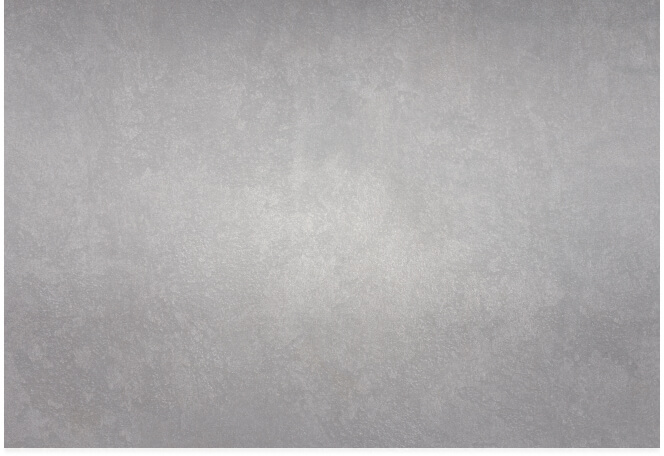
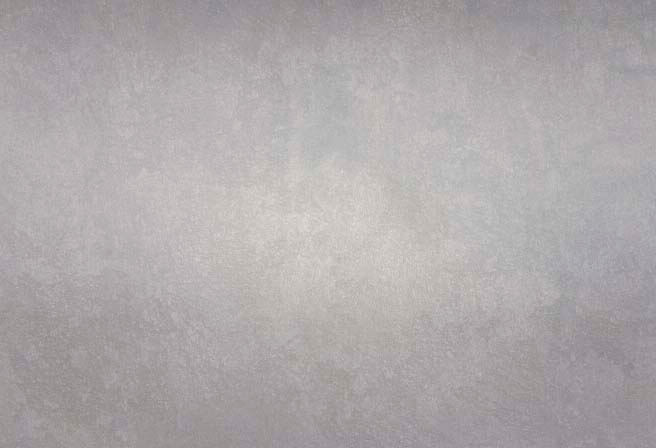
поправляет дату и фоновую картинку у товара

Changed region(s): [[0.0, 0.0, 1.0, 1.0]]

diff --git a/src/index.html b/src/index.html
@@ -12,6 +12,18 @@
 	<link rel="shortcut icon" href="favicon.ico" type="image/x-icon">
 
 	<link rel="stylesheet" href="styles/main.css">
+	<script>
+		function dtime(num) {
+			const date = new Date();
+
+			date.setDate(date.getDate() + num);
+			var options = {
+				month: 'long',
+				day: 'numeric',
+			};
+			document.write(date.toLocaleString("en-US", options));
+		}
+	</script>
 </head>
 
 <body>
@@ -172,7 +184,7 @@
 				<p>— Это, несомненно, радует. Спасибо большое за интервью, вашу работу и за то, что пытаетесь изменить мир к лучшему!</p>
 				<p>— Я всегда была за инновации и рада, что у меня получается двигаться в правильном направлении. Надеюсь, Illumis поможет каждой женщине и поэтому дарю скидку 50 % всем, кто успеет заказать продукт из второй партии.</p>
 				<figure>
-					<img src="./img/img-6.jpg" alt="#" width="656" height="688" loading="lazy">
+					<img src="./img/img-6.jpg" alt="#" width="656" height="448" loading="lazy">
 					<img src="./img/prod.png" alt="Illumis" class="prod" width="146" height="353" loading="lazy">
 					<figcaption class="p0">
 						<span>Illumis</span>
@@ -219,7 +231,10 @@
 							<div class="comments__item-header">
 								<div class="comments__ava">M</div>
 								<p class="comments__name">Mary Thompson</p>
-								<p class="comments__date">10:20 23 May</p>
+								<p class="comments__date">10:20 <script>
+										dtime(-2);
+									</script>
+								</p>
 							</div>
 							<p>Thanks, I’m gonna order it for myself.</p>
 							<div class="comments__likes">
@@ -232,7 +247,10 @@
 							<div class="comments__item-header">
 								<div class="comments__ava">M</div>
 								<p class="comments__name">Megan Wild</p>
-								<p class="comments__date">10:22 23 May</p>
+								<p class="comments__date">10:22 <script>
+										dtime(-2);
+									</script>
+								</p>
 							</div>
 							<p>I personally don't have any issues of this kind. Dunno, when they talk about pain and a bad mood, it seems to me that they are exaggerating.</p>
 							<div class="comments__likes">
@@ -245,7 +263,10 @@
 							<div class="comments__item-header">
 								<div class="comments__ava">M</div>
 								<p class="comments__name">Margo Kovalev</p>
-								<p class="comments__date">10:29 23 May</p>
+								<p class="comments__date">10:29 <script>
+										dtime(-2);
+									</script>
+								</p>
 							</div>
 							<p>You know, everyone's body is different. My pain was so terrible that I could hardly get out of bed for three days, and 10 days before my periods I simply turned into a ball of nerves, I was irritated by EVERYTHING. Fortunately, I found out about Illumis, otherwise I don’t know how much longer I would have suffered. This is the only product that whipped me into shape, both internally and externally.</p>
 							<div class="comments__likes">
@@ -258,7 +279,10 @@
 							<div class="comments__item-header">
 								<div class="comments__ava">R</div>
 								<p class="comments__name">Roxy Hunt</p>
-								<p class="comments__date">11:02 23 May</p>
+								<p class="comments__date">11:02 <script>
+										dtime(-2);
+									</script>
+								</p>
 							</div>
 							<p>I also suffered from PMS symptoms, I was twitchy and angry. None of the sedatives helped, nor did the painkillers. As soon as I tried Illumis, I went from being an evil witch to being a fairy.</p>
 							<div class="comments__likes">
@@ -271,7 +295,10 @@
 							<div class="comments__item-header">
 								<div class="comments__ava">H</div>
 								<p class="comments__name">Helen Jones</p>
-								<p class="comments__date">11:27 23 May</p>
+								<p class="comments__date">11:27 <script>
+										dtime(-2);
+									</script>
+								</p>
 							</div>
 							<p>I’ve been experiencing torture every month since the age of 12... and my periods last 7 days. And 10 days BEFORE I feel I’m not myself anymore… I checked with gynecologists, there are no deviations, they say…  my body just works like that! It’s just terrible. I'm going to try this, hope it helps…</p>
 							<div class="comments__likes">
@@ -284,7 +311,10 @@
 							<div class="comments__item-header">
 								<div class="comments__ava">H</div>
 								<p class="comments__name">Heather Beri</p>
-								<p class="comments__date">09:59 24 May</p>
+								<p class="comments__date">09:59 <script>
+										dtime(-1);
+									</script>
+								</p>
 							</div>
 							<p>I can relate! Periods are the worst thing that ever happened in my life! But with Illumis, I forgot about this nightmare! And most importantly, I am delighted with the composition! A very effective remedy, all-natural and does not harm the internal organs and the nervous system.</p>
 							<div class="comments__likes">
@@ -406,8 +436,8 @@
 				check = 'web';
 			}
 		}
-
 	</script>
+
 </body>
 
 </html>
